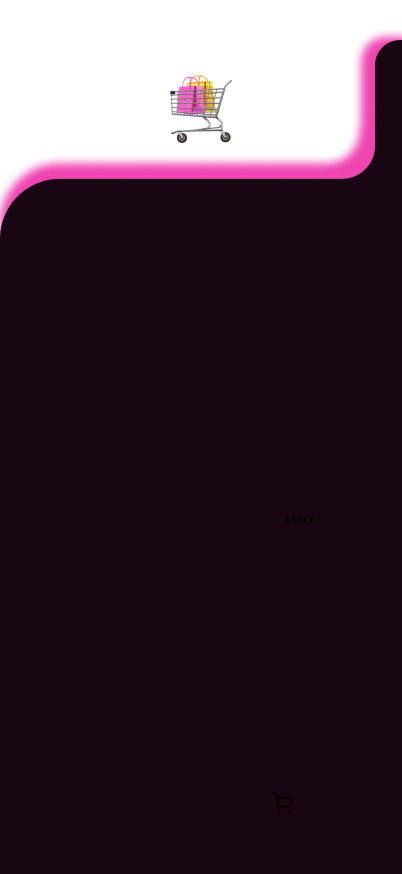
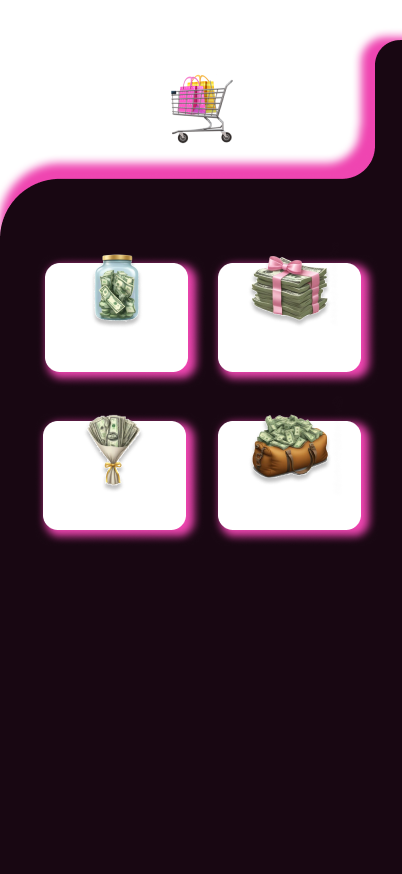
store page fixed background

diff --git a/lib/screens/chatting_page.dart b/lib/screens/chatting_page.dart
@@ -1,0 +1,46 @@
+import 'package:flutter/material.dart';
+import 'package:obeypay/widgets/nav_bar.dart';
+import '../widgets/text_styles.dart';
+import '../widgets/chat_widget.dart';
+
+class ChattingPage extends StatelessWidget {
+  const ChattingPage({super.key});
+
+  @override
+  Widget build(BuildContext context) {
+    double screenHeight = MediaQuery.of(context).size.height;
+
+    return Scaffold(
+      body: Column(
+        children: [
+          Expanded(
+            flex: 3,
+            child: Container(
+              decoration: const BoxDecoration(
+                image: DecorationImage(
+                  image: AssetImage("assets/images/chatting.png"),
+                  fit: BoxFit.cover,
+                ),
+              ),
+              child: Column(
+                children: [
+                  SizedBox(height: screenHeight * 0.22),
+                  ChatCard(
+                    name: 'Alexa',
+                    lastMessage: 'idk pig, pay and see',
+                    imageUrl: 'assets/images/golddigger.png',
+                  ),
+                  ChatCard(
+                    name: 'Alexa',
+                    lastMessage: 'idk pig, pay and see',
+                    imageUrl: 'assets/images/golddigger.png',
+                  ),
+                ],
+              ),
+            ),
+          ),
+        ],
+      ),
+    );
+  }
+}

diff --git a/lib/main.dart b/lib/main.dart
@@ -4,6 +4,7 @@ import 'package:obeypay/screens/chats_page.dart';
 import 'package:obeypay/screens/dom_profile_page.dart';
 import 'package:obeypay/screens/home_page.dart';
 import 'package:obeypay/screens/store_page.dart';
+import 'package:obeypay/screens/chatting_page.dart';
 import 'package:obeypay/utils/notificationService.dart';
 
 void main() {
@@ -31,7 +32,7 @@ class MyApp extends StatelessWidget {
         scaffoldBackgroundColor: Colors.white,
         // Other default theme properties if we want.
       ),
-      home: const ChatsPage(),
+      home: const StorePage(),
     );
   }
 }
